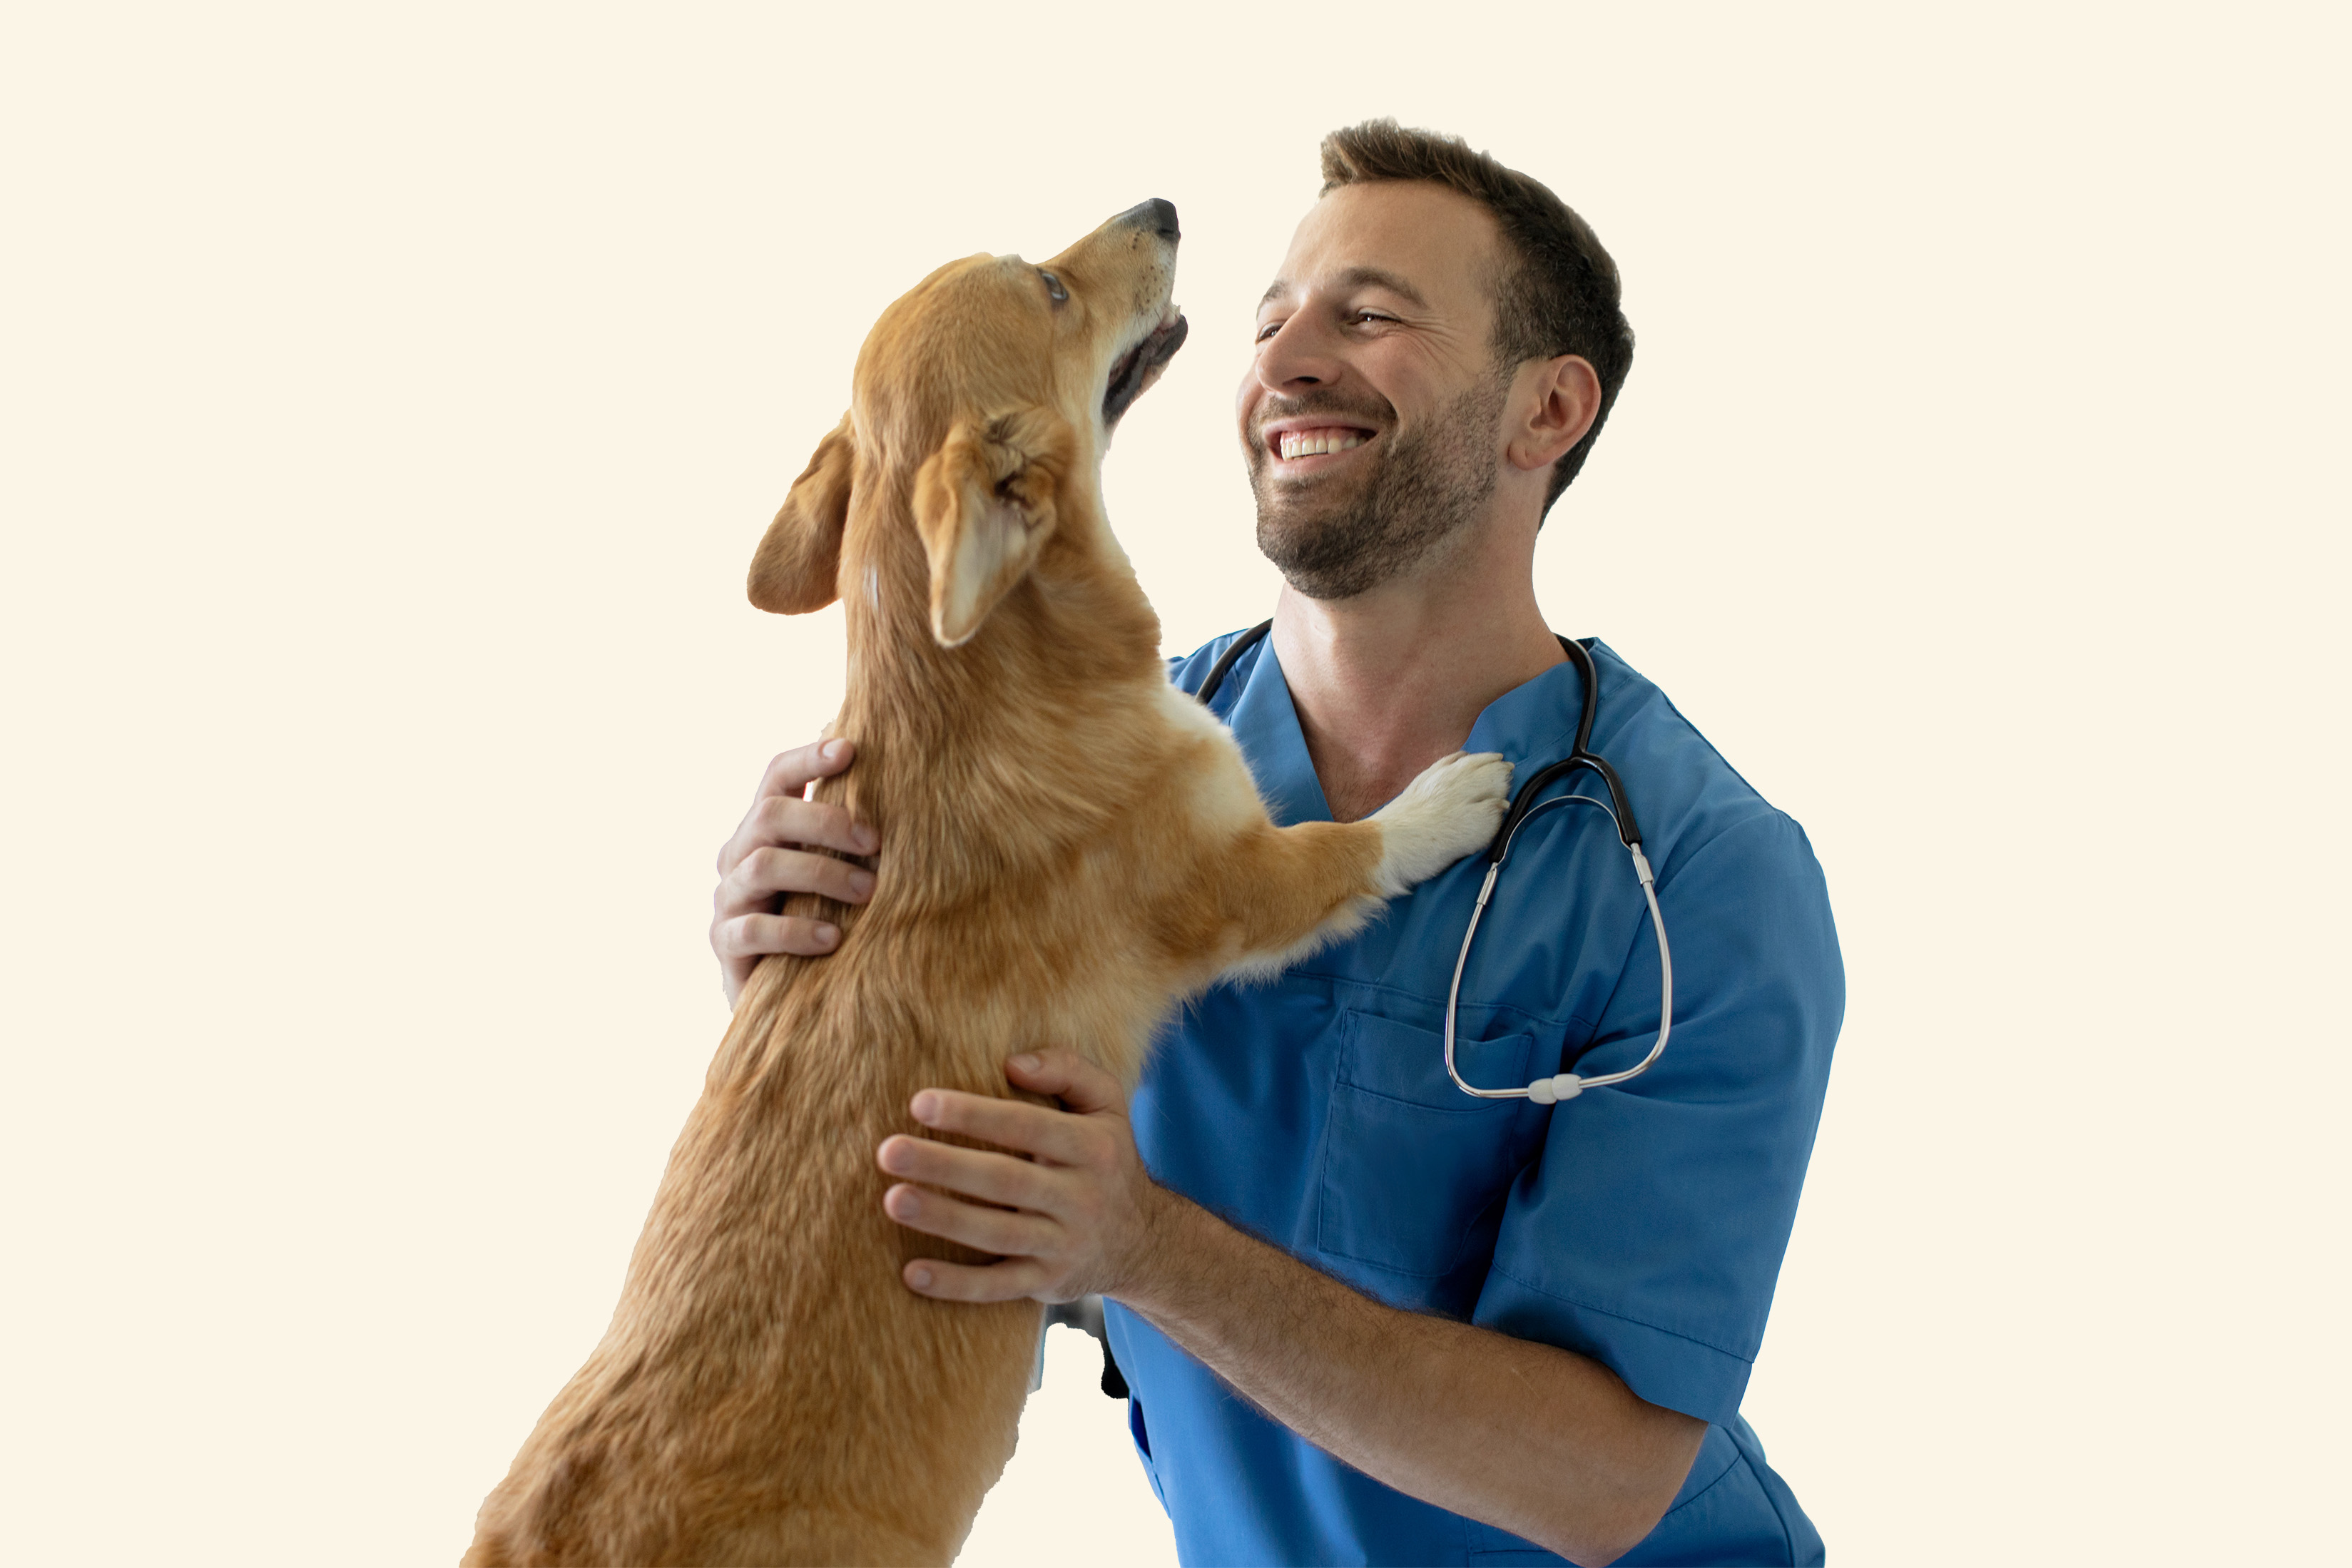
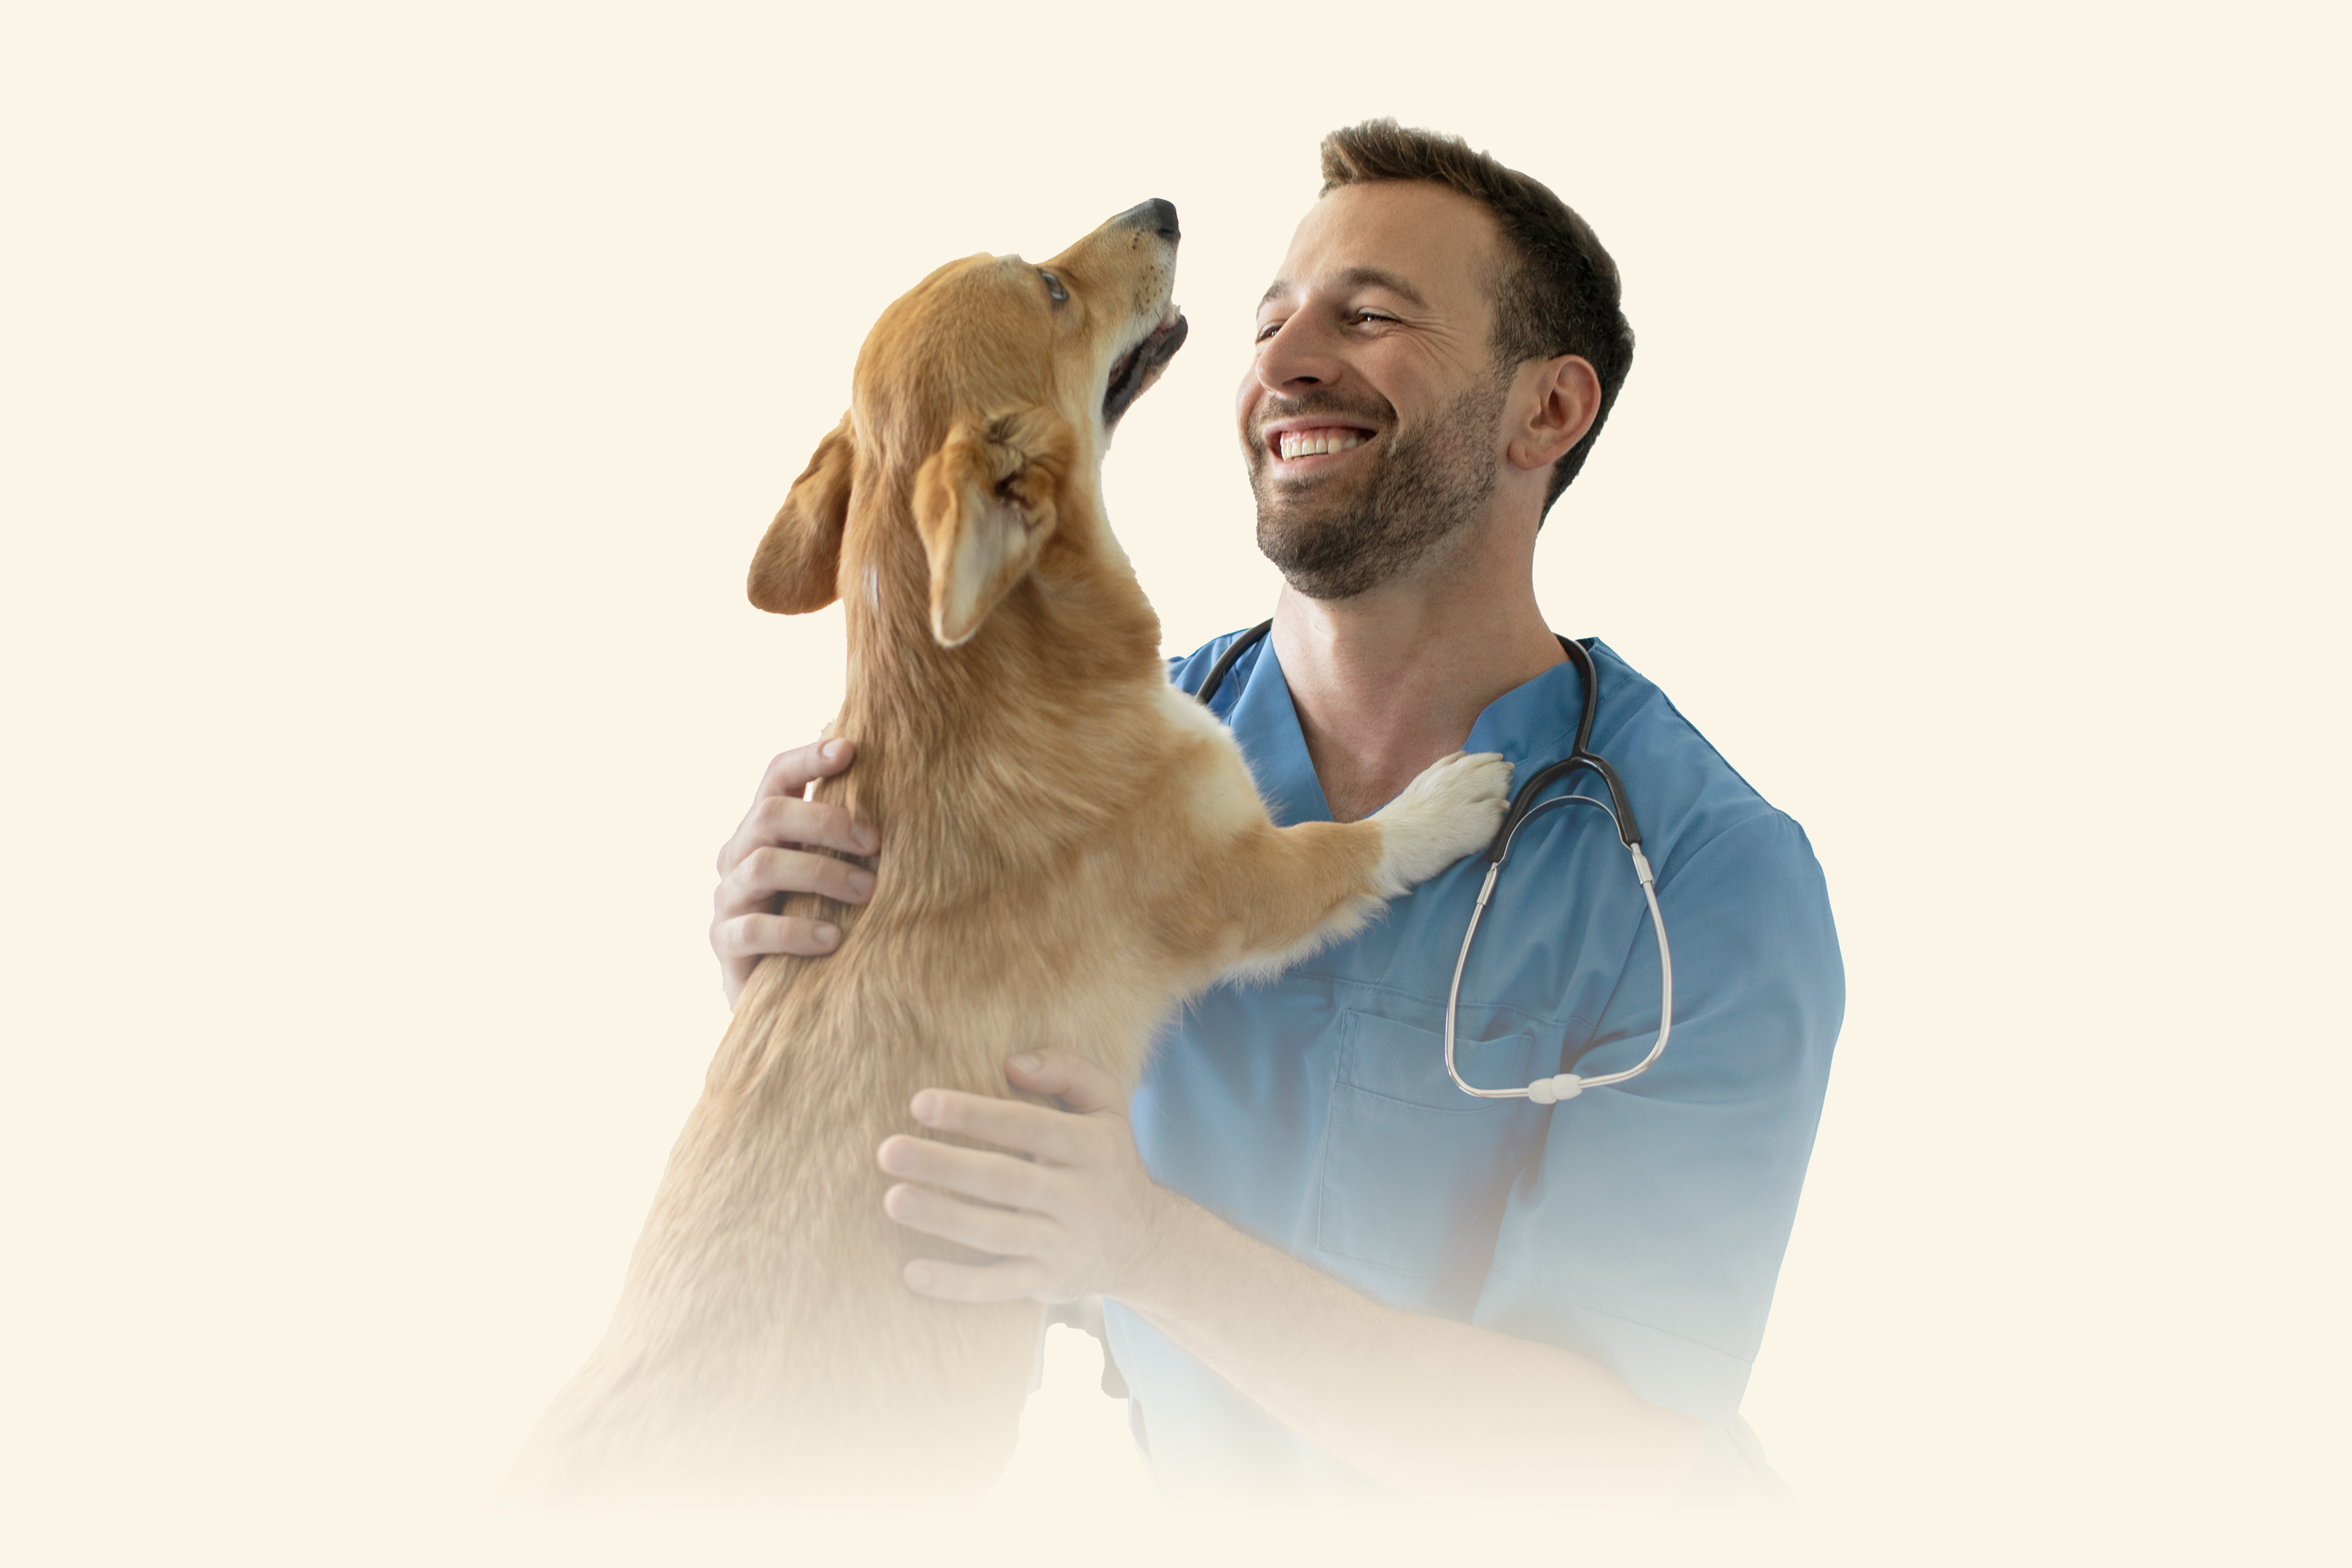
Corrección imagen index.php
Ahora la foto está detrás del texto, ocupando toda la pantalla.

Changed region(s): [[0.1874, 0.4641, 0.8123, 1.0]]

diff --git a/estilos.css b/estilos.css
@@ -324,8 +324,8 @@ select.campo {
   padding-bottom: 50px;  /* margen inferior pedido */
   background-image: url('perro-con-vete_01.jpeg');
   background-repeat: no-repeat;
-  background-position: top center;
-  background-size: contain;
+  background-position: center;
+  background-size: cover;   /* rellena toda la pantalla (fill), detrás del texto */
 }
 /* Empuja el título + la grilla hacia el borde inferior */
 .pantalla--home .home__contenido {